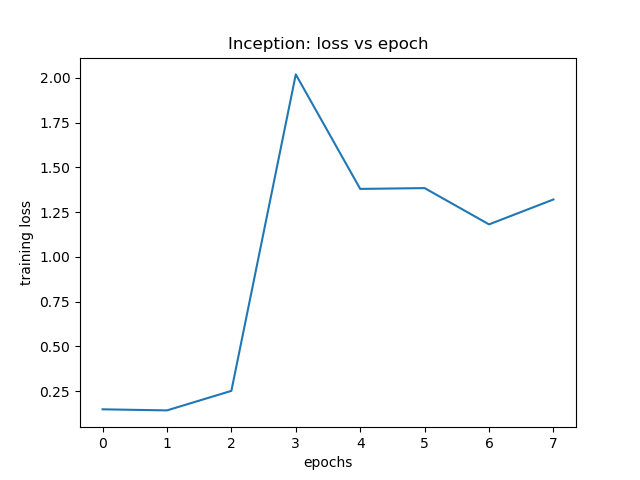
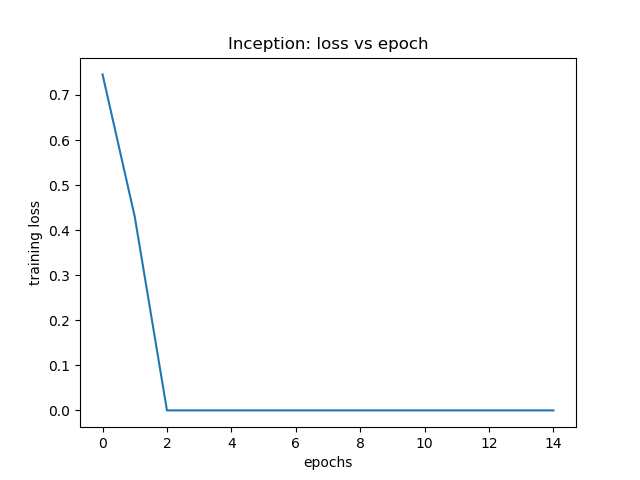
gpu configuration added version(2.2.0)

diff --git a/main.py b/main.py
@@ -18,6 +18,9 @@ train = int(args.train)
 checkpoint = int(args.checkpoint)
 training_module = args.training_module
 
+CUDA = torch.cuda.is_available()
+device = torch.device('cuda' if CUDA else 'cpu')
+
 classes = np.array(os.listdir(root_path))
 print(classes)
 dataloader = load_dataset(root_path,batch_size)
@@ -36,7 +39,7 @@ opt = optim.SGD(model.parameters(), lr = lr)
 #classification module
 classify = classification(final_out_features, len(classes))
 loss_cl = nn.CrossEntropyLoss()
-opt_cl = optim.SGD(classify.parameters(), lr = lr)
+opt_cl = optim.Adam(classify.parameters(), lr = lr)
 
 if train:
 
@@ -48,7 +51,7 @@ if train:
             opt.load_state_dict(checkpoint['optimizer_state_dict'])
             previous_losses = checkpoint['losses']
 
-        losses = train_inception(dataloader, batch_size, model, loss_func, opt, False, epochs)    
+        losses = train_inception(dataloader, batch_size, model, loss_func, opt, device, epochs)    
         
         previous_losses.extend(losses)
         plt.figure()
@@ -56,6 +59,7 @@ if train:
         plt.title('Inception: loss vs epoch')
         plt.xlabel('epochs')
         plt.ylabel('training loss')
+        plt.savefig('training_inception.png')
         plt.show()
         #checkpointing
         checkpoint_inception = {
@@ -79,13 +83,14 @@ if train:
             opt_cl.load_state_dict(checkpoint['optimizer_state_dict'])
             previous_losses = checkpoint['losses']
 
-        losses = train_classification(dataloader, batch_size, model, classify, loss_cl, opt_cl, False, num_epochs = epochs)
+        losses = train_classification(dataloader, batch_size, model, classify, loss_cl, opt_cl, device, num_epochs = epochs)
         previous_losses.extend(losses)
         plt.figure()
         plt.plot(previous_losses)
         plt.title('Classification: loss vs epoch')
         plt.xlabel('epochs')
         plt.ylabel('training loss')
+        plt.savefig('training_classification.png')
         plt.show()
         #checkpointing
         checkpoint_classification = {
@@ -93,7 +98,7 @@ if train:
              'batch_size': batch_size,
              'epochs': epochs,
              'losses': losses,
-             'model_state_dict': classification.state_dict(),
+             'model_state_dict': classify.state_dict(),
              'optimizer_state_dict': opt_cl.state_dict()
             }
         torch.save(checkpoint_classification, 'checkpoints/classification.pt')
@@ -109,17 +114,17 @@ elif not train:
     checkpoint_classification = torch.load('checkpoints/classification.pt')
     model.load_state_dict(checkpoint_inception['model_state_dict'])
     classify.load_state_dict(checkpoint_classification['model_state_dict'])
-
+    dataloader = load_dataset(root_path,batch_size, shuffle = True)
     dataiter = iter(dataloader)
     images, labels = dataiter.next()
     topk = 2
-    evaluate(images, labels, model, classify, topk)
+    pred = evaluate(images, labels, model, classify, topk)
 
     plt.figure()
-    for image in images:
-        print(image.shape)
+    for i,image in enumerate(images):
         img = image.permute(1,2,0)
         plt.imshow(img)
+        plt.title(classes[pred[i]])
         plt.show()
 
 

diff --git a/train_inception.py b/train_inception.py
@@ -1,13 +1,14 @@
 from __future__ import print_function, division
 from triplet_selection import *
 
-def train_inception(dataloader, batch_size, net, criterion, optimizer, use_gpu, num_epochs=100):
+def train_inception(dataloader, batch_size, net, criterion, optimizer, device, num_epochs=100):
+    net.to(device)
     losses = []
     for epoch in range(num_epochs):
         print('Epoch {}/{}'.format(epoch+1, num_epochs))
         print('-'*20)
 
-        ts = TripletSelection(dataloader)
+        ts = TripletSelection(dataloader, device)
         anchors, positives, negatives = ts.tripletSelection()
         data = torch.cat((anchors, positives, negatives), dim = 0)
         output = net(data.float())
@@ -18,18 +19,24 @@ def train_inception(dataloader, batch_size, net, criterion, optimizer, use_gpu, 
         print('loss: {0:2.5f}'.format(loss.item()))
     return losses
 
-def train_classification(dataloader, batch_size, model_inc, net, criterion, optimizer, use_gpu, num_epochs = 100):
+def train_classification(dataloader, batch_size, model_inc, net, criterion, optimizer, device, num_epochs = 100):
+    model_inc.to(device)
+    net.to(device)
     dataiter = iter(dataloader)
     losses = []
     for epoch in range(num_epochs):
-        images, labels = dataiter.next()
+        try:
+            images, labels = dataiter.next()
+        except:
+            dataiter = iter(dataloader)
+            images, labels = dataiter.next()
+        images = images.to(device)
+        labels = labels.to(device)
         print('Epoch {}/{}'.format(epoch+1, num_epochs))
         print('-'*20)
         feature_out = model_inc(images)
         output = net(feature_out)
-
-        pred = torch.argmax(output, dim = 1)
-        loss = criterion(pred, labels)
+        loss = criterion(output, labels)
         loss.backward()
         optimizer.step()
         losses.append(loss.item())

diff --git a/inference.py b/inference.py
@@ -2,6 +2,7 @@ import torch
 import torch.nn as nn
 
 def evaluate(input_, true_label, model_inc, model_cls, topk):
+    
     with torch.no_grad():
         feature_out = model_inc(input_)
         out = model_cls(feature_out)
@@ -20,3 +21,5 @@ def evaluate(input_, true_label, model_inc, model_cls, topk):
             true_positive = true_positive + 1
     print('top{0} accuracy score {1}'.format(topk, true_positive_TOPK/input_.shape[0]))
     print('top 1 accuracy score {0}'.format(true_positive/input_.shape[0]))
+
+    return pred

diff --git a/triplet_selection.py b/triplet_selection.py
@@ -5,8 +5,10 @@ class TripletSelection():
     def __init__(self, dataloader):
         self.dataloader = dataloader
         self.dataiter = iter(dataloader)
-    def tripletSelection(self):
+    def tripletSelection(self, device):
         images, labels = self.dataiter.next()
+        images = images.to(device)
+        labels = labels.to(device)
         grouping = {}
         if images.shape[0] < 2:
             print('Insufficient images, cannot train further')

diff --git a/README.md b/README.md
@@ -2,51 +2,59 @@
 Google's facenet implementation in pytorch for face identification
 
 # directory structure
-root
-  --datasets
-    --custom_images
-      --class_label1
-        --image1
+* root
+  * --datasets
+    * --custom_images
+      * --class_label1
+        * --image1
         '
         '
         '
-  --models
-    --inception_resnet.py
-  --loss.py
-  --main.py
-  --train_inception.py
-  --triplet_selection.py
-  --utils.py
+  * --models
+    * --inception_resnet.py
+  * --loss.py
+  * --main.py
+  * --train_inception.py
+  * --triplet_selection.py
+  * --utils.py
   
  # understanding files
- inception_resnet.py : implements inception_resnet_v1 in pytorch
-      functions()    : load_weights(model, dname)
+ 1. inception_resnet.py : implements inception_resnet_v1 in pytorch
+      * functions()    : load_weights(model, dname)
+
                           -model to load the weights to
                           -dname : 'vggface2' / 'casia-webface2', pretrained weights to load
-                     : get_torch_home()
+                       : get_torch_home()
                           -storing pretrained weights in the cache folder created in the home path
                            it helps to restore the weights if available in the cache, otherwise download them
-loss.py              : implements TripletLoss class
+2. loss.py              : implements TripletLoss class
                           -computes the triplet loss on anchor, positive and negative images
-train_inception.py   : implements the training module for inception resnet
-      functions()    : train_inception(dataloader, batch_size, net, criterion, optimizer, use_gpu, num_epochs)
+3. train_inception.py   : implements the training module for inception resnet
+      * functions()    : train_inception(dataloader, batch_size, net, criterion, optimizer, use_gpu, num_epochs)
+
                           -training the inception_resnet module using triplet loss
-triplet_selection.py : implements tripletselection class
-      functions()    : __init__()
+4. triplet_selection.py : implements tripletselection class
+      * functions()    : __init__()
+
                      : tripletSelection()
+
                           -loading batch of images and labels, creating a dictionary of key:value pairs
                             key: class label
                             value: list of indexes of image of key label
                           -computing triplet loss for loaded anchor images from dataloader, selected positives and negatives from 
                            grouping dictionary
-utils.py            : utility functions for the module
-     functions()    : infer(model, image)
+5. utils.py            : utility functions for the module
+     * functions()    : infer(model, image)
+
                           -model
                           -image
                         outputs: feature vector of inception module
-                      load_dataset(root, batchsize, shuffle)
+
+                      : load_dataset(root, batchsize, shuffle)
+
                           -generate a dataloader
-                      arg_parse()
+                      : arg_parse()
+                      
                           parser to provide command line inputs
                             --rootdir : root directory containing images to train (eg: 'datasets/custom_images')
                             --lrin    : learning rate for inception resnet module
@@ -54,6 +62,6 @@ utils.py            : utility functions for the module
                             --bs      : batch size for training
                             --epochs  : number of epochs for training
                             --train   : 1 for training/ 0 for evaluation
-main.py             : main file                         
+6. main.py             : main file                         
       
 
